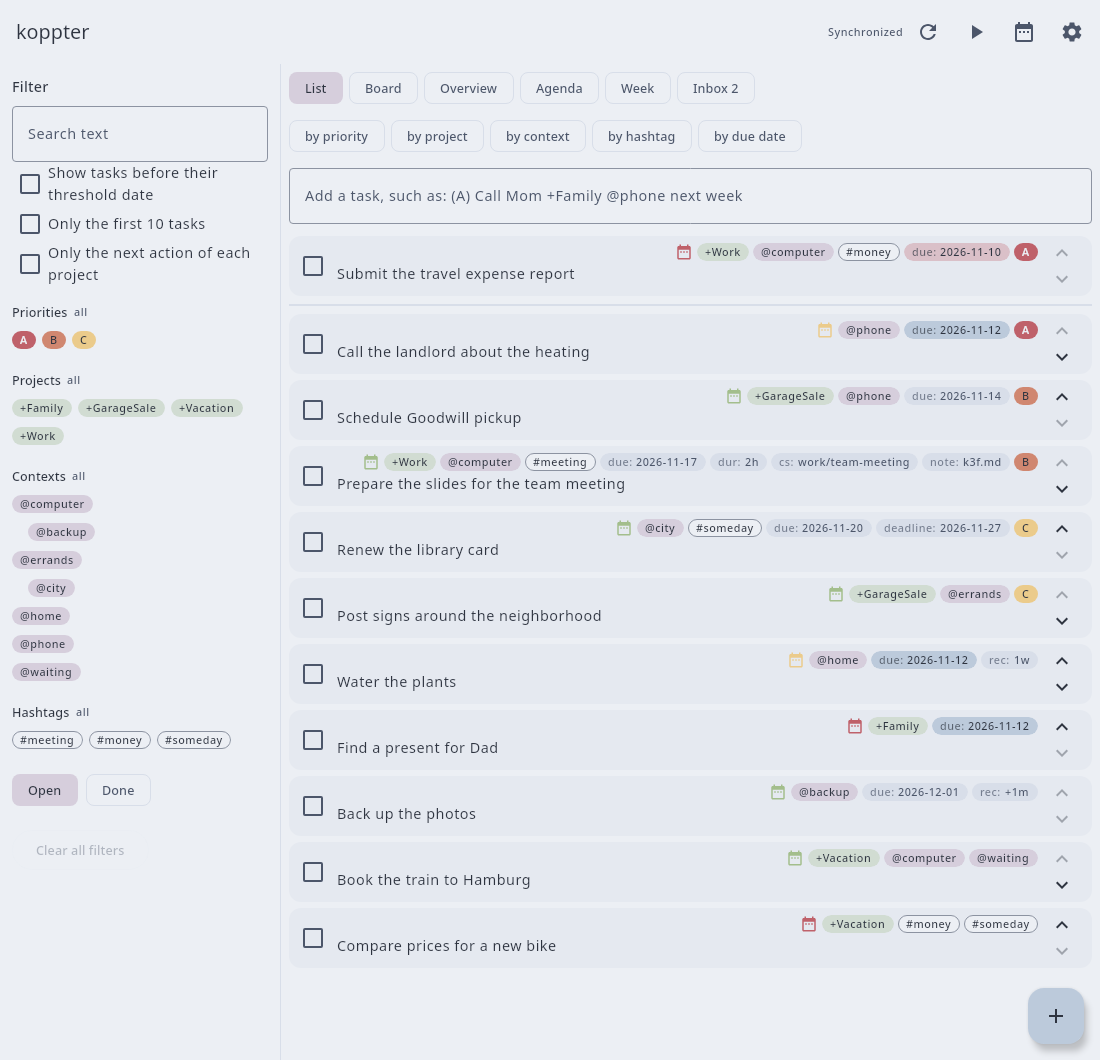
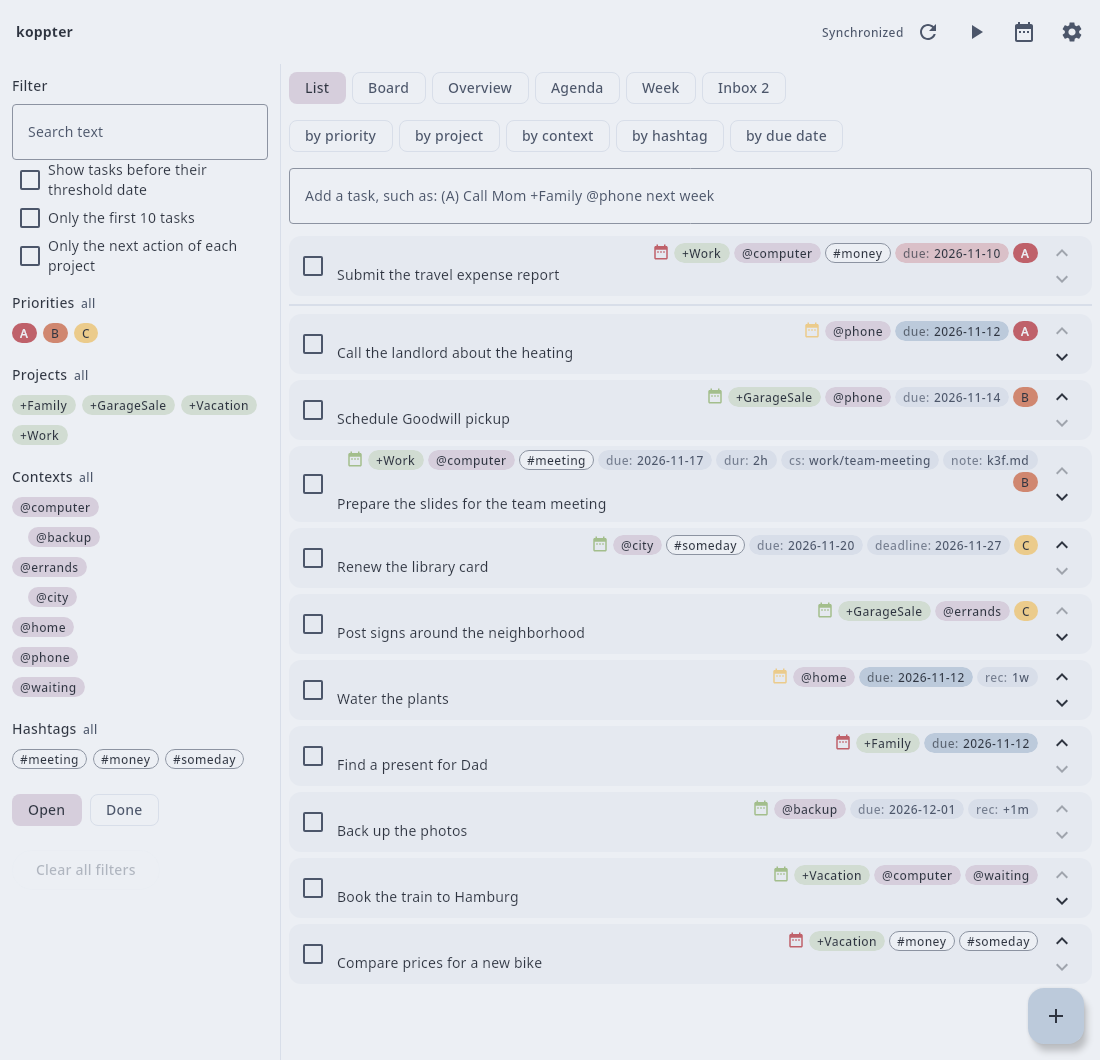
Reduce the texts to two sizes
The nine sizes of the type scale of Material made the window restless.
Texts, fields, buttons and titles now share one size, labels and remarks a smaller one, and a title is told apart by its weight.

diff --git a/app/src/commonMain/kotlin/io/github/koppor/koppter/ui/Theme.kt b/app/src/commonMain/kotlin/io/github/koppor/koppter/ui/Theme.kt
@@ -9,6 +9,7 @@ import androidx.compose.ui.graphics.Color
 import androidx.compose.ui.graphics.compositeOver
 import androidx.compose.ui.graphics.luminance
 import androidx.compose.ui.text.TextStyle
+import androidx.compose.ui.text.font.FontWeight
 import io.github.koppor.koppter.storage.ColorTheme
 
 /** The colors of the light or the dark variant of a published palette, named by their use in the application. */
@@ -163,18 +164,24 @@ fun colorScheme(theme: ColorTheme, dark: Boolean): ColorScheme {
 }
 
 /**
- * The type scale of Material, a tenth smaller: its sizes are made for phones and look coarse in a window on a desktop.
- * The smaller size also keeps a field of one line at its minimum height.
+ * The type scale of Material with two sizes instead of its nine: the medium body size for texts, fields, buttons and titles,
+ * and the small body size for labels and remarks. A title differs from a text by its weight.
+ * The many sizes of the scale are made for phones and look restless and coarse in a window on a desktop.
+ * The medium size also keeps a field of one line at its minimum height.
  * Compose measures an empty line higher than a filled one, so a field of the default size shrinks with the first character typed.
  */
 // [impl->dsn~main-screen~1]
 val compactTypography: Typography = Typography().run {
-    fun TextStyle.compact() = copy(fontSize = fontSize * 0.9f, lineHeight = lineHeight * 0.9f)
+    // The spacing of the letters belongs to the size: with that of its own, a style would still look like another size.
+    fun TextStyle.sizedAs(other: TextStyle) = copy(fontSize = other.fontSize, lineHeight = other.lineHeight, letterSpacing = other.letterSpacing)
+    fun TextStyle.text() = sizedAs(bodyMedium)
+    fun TextStyle.small() = sizedAs(bodySmall)
     Typography(
-        displayLarge.compact(), displayMedium.compact(), displaySmall.compact(),
-        headlineLarge.compact(), headlineMedium.compact(), headlineSmall.compact(),
-        titleLarge.compact(), titleMedium.compact(), titleSmall.compact(),
-        bodyLarge.compact(), bodyMedium.compact(), bodySmall.compact(),
-        labelLarge.compact(), labelMedium.compact(), labelSmall.compact(),
+        displayLarge.text(), displayMedium.text(), displaySmall.text(),
+        headlineLarge.text(), headlineMedium.text(), headlineSmall.text(),
+        // The large title has the weight of a text in the scale, which only its size told apart.
+        titleLarge.text().copy(fontWeight = FontWeight.Bold), titleMedium.text(), titleSmall.text(),
+        bodyLarge.text(), bodyMedium, bodySmall,
+        labelLarge.text(), labelMedium.small(), labelSmall.small(),
     )
 }

diff --git a/docs/requirements/ui.md b/docs/requirements/ui.md
@@ -603,7 +603,8 @@ The main screen consists of the top bar, the filter panel, the switches for the 
 The switches stand above the field, as a task is looked up more often than added.
 A button of the top bar shows its description while the pointer rests on it.
 Errors of the storage are shown in a snackbar.
-The texts use the type scale of Material reduced by a tenth (`compactTypography`), which suits a window on a desktop and keeps a field of one line at the same height whether it is empty or filled.
+The texts use two sizes of the type scale of Material (`compactTypography`): the medium body size for texts, fields, buttons and titles, and the small body size for labels and remarks; a title differs from a text by its weight.
+That suits a window on a desktop and keeps a field of one line at the same height whether it is empty or filled.
 
 Covers:
 

diff --git a/CHANGELOG.md b/CHANGELOG.md
@@ -31,6 +31,7 @@ and this project adheres to [Calendar Versioning](https://calver.org/) with the 
 
 ### Changed
 
+- The texts have two sizes instead of nine: one for texts, fields, buttons and titles, and a smaller one for labels and remarks; a title is told apart by its weight.
 - The filter of the task list is kept on the device and is there again after a restart; another `todo.txt` file starts without it.
 - The time by which a task is due on its due date is written `dueby:14:00`; the former `by:14:00` is not read anymore and has to be renamed in a file that has it.
 - The guide to organizing many tasks and the skill for agents describe projects as the outline of areas and outcomes, and contexts as the kinds of work and the places; the guide compares this with areas as contexts, and the skill follows the way that the file uses.
